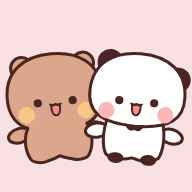
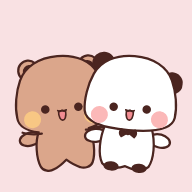
Refine Bubu and Dudu proportions to match the reference
- Taller, dome-shaped heads that are widest down at the cheeks
- Heads overhang narrower bodies; Bubu gets short strokes where the
  arms meet the head instead of a chin line, and separate legs
- Bigger eyes and cheeks, smaller ears on the top corners, thinner outlines
- Dudu's ears and bow repositioned; smaller feet
- Taller character frames in the UI and regenerated icons

Claude-Session: https://claude.ai/code/session_012u5ik2zT8MebyXRT3nx7Dc

Changed region(s): [[0.0, 0.25, 1.0, 0.9062]]

diff --git a/js/characters.js b/js/characters.js
@@ -1,8 +1,8 @@
 // Inline SVG drawings of the two characters: Bubu (brown bear) and Dudu (white panda).
-// Original drawings in the Bubu & Dudu style: a big soft mochi-shaped head, stubby body,
-// little nub arms, dot eyes, an open "ω" mouth, round cheeks and thick dark-brown outlines.
-// Bubu's head and body are one continuous shape; Dudu's head sits on top of the body
-// with a little dark collar underneath.
+// Original drawings in the Bubu & Dudu style: a big soft head that is widest down at the
+// cheeks, a short chunky body, little nub arms, dot eyes, an open "ω" mouth, round cheeks
+// and dark-brown outlines. Bubu's head and body are one continuous shape; Dudu's head sits
+// on top of the body with a little dark bow underneath.
 
 export const INK = '#4B2520';
 const TONGUE = '#F28C92';
@@ -33,70 +33,75 @@ const blob = (d, fill, w = 3.5) =>
 
 // Open mouth: a small "ω" on top of a U filled with tongue. `depth` is how far it drops.
 const openMouth = (depth) =>
-  blob(`M92 101 C91 ${101 + depth * 0.7} 95 ${101 + depth} 100 ${101 + depth} C105 ${101 + depth} 109 ${101 + depth * 0.7} 108 101 Z`, TONGUE) +
-  line('M90 100 q5 5.5 10 0 q5 5.5 10 0', 3.5);
+  blob(`M93 97 C92 ${97 + depth * 0.7} 96 ${97 + depth} 100 ${97 + depth} C104 ${97 + depth} 108 ${97 + depth * 0.7} 107 97 Z`, TONGUE, 3.2) +
+  line('M91.5 96 q4.25 5 8.5 0 q4.25 5 8.5 0', 3.2);
 
-// Face features in head coordinates: eyes at (68, 96) and (132, 96), mouth below the centre.
+// Face features in head coordinates: eyes at (67, 92) and (133, 92), mouth just below.
 const FACES = {
-  happy: () => dot(68, 96, 7.5) + dot(132, 96, 7.5) + openMouth(20),
+  happy: () => dot(67, 92, 8.5) + dot(133, 92, 8.5) + openMouth(19),
   sleepy: () =>
-    line('M60 97 q8 6 16 0') + line('M124 97 q8 6 16 0') +
-    line('M93 104 q3.5 4 7 0 q3.5 4 7 0', 3.5) +
-    line('M172 16 h9 l-9 11 h9', 3.5) + line('M186 2 h7 l-7 9 h7', 3),
+    line('M59 93 q8 6 16 0') + line('M125 93 q8 6 16 0') +
+    line('M93 100 q3.5 4 7 0 q3.5 4 7 0', 3.2) +
+    line('M176 -6 h9 l-9 11 h9', 3.5) + line('M190 -20 h7 l-7 9 h7', 3),
   hungry: () =>
-    dot(68, 96, 8) + dot(132, 96, 8) + shine(71, 93, 2.6) + shine(135, 93, 2.6) +
-    openMouth(27) +
-    blob('M113 116 q8 12 0 17 q-8 -5 0 -17 z', WATER, 3),
+    dot(67, 92, 9) + dot(133, 92, 9) + shine(70, 88.5, 3) + shine(136, 88.5, 3) +
+    openMouth(25) +
+    blob('M112 110 q8 12 0 17 q-8 -5 0 -17 z', WATER, 3),
   missyou: () =>
-    dot(68, 96, 8.5) + dot(132, 96, 8.5) + shine(71, 92, 3) + shine(135, 92, 3) +
-    blob('M138 104 q9 13 0 19 q-9 -6 0 -19 z', WATER, 3) +
-    line('M90 113 q5 -5.5 10 0 q5 -5.5 10 0', 3.5),
+    dot(67, 92, 9.5) + dot(133, 92, 9.5) + shine(70, 88, 3.4) + shine(136, 88, 3.4) +
+    blob('M140 100 q9 13 0 19 q-9 -6 0 -19 z', WATER, 3) +
+    line('M90 108 q5 -5.5 10 0 q5 -5.5 10 0', 3.2),
   busy: () =>
-    line('M60 96 h16') + line('M124 96 h16') +
-    line('M93 108 h14', 3.5) +
-    blob('M34 50 q8 12 0 17 q-8 -5 0 -17 z', WATER, 3),
+    line('M59 92 h16') + line('M125 92 h16') +
+    line('M93 104 h14', 3.2) +
+    blob('M28 52 q8 12 0 17 q-8 -5 0 -17 z', WATER, 3),
   grumpy: () =>
-    dot(68, 98, 6.5) + dot(132, 98, 6.5) +
-    line('M54 82 l20 7') + line('M146 82 l-20 7') +
-    line('M90 114 q10 -9 20 0', 3.5),
+    dot(67, 94, 7.5) + dot(133, 94, 7.5) +
+    line('M54 78 l20 7') + line('M146 78 l-20 7') +
+    line('M90 110 q10 -9 20 0', 3.2),
 };
 
 const cheeks = (c) =>
-  `<circle cx="46" cy="116" r="15" fill="${c.cheek}"/><circle cx="154" cy="116" r="15" fill="${c.cheek}"/>`;
+  `<circle cx="40" cy="110" r="17" fill="${c.cheek}"/><circle cx="160" cy="110" r="17" fill="${c.cheek}"/>`;
 
-// The top and sides of the head, shared by both characters.
-const HEAD_TOP = 'M100 8 C152 8 186 34 187 82';
+// Head: narrower at the top, widest down at cheek level, soft flat-ish bottom.
+const HEAD_TOP_RIGHT = 'M100 -12 C138 -12 166 4 178 30 C188 52 193 82 190 104';
+const HEAD_LEFT_TOP = 'C7 82 12 52 22 30 C34 4 62 -12 100 -12 Z';
 const headShape = (fill) =>
-  `<path fill="${fill}" d="${HEAD_TOP} C188 120 166 140 100 141 C34 140 12 120 13 82 C14 34 48 8 100 8 Z"/>`;
+  `<path fill="${fill}" d="${HEAD_TOP_RIGHT} C187 124 160 136 100 136 C40 136 13 124 10 104 ${HEAD_LEFT_TOP}"/>`;
 
 function bubuParts(c) {
   const ears =
-    `<circle cx="44" cy="30" r="20" fill="${c.fur}"/><circle cx="156" cy="30" r="20" fill="${c.fur}"/>` +
-    `<circle cx="46" cy="33" r="12.5" fill="${INK}" stroke="none"/><circle cx="154" cy="33" r="12.5" fill="${INK}" stroke="none"/>`;
+    `<circle cx="40" cy="12" r="20" fill="${c.fur}"/><circle cx="160" cy="12" r="20" fill="${c.fur}"/>` +
+    `<circle cx="42" cy="14" r="13" fill="${INK}" stroke="none"/><circle cx="158" cy="14" r="13" fill="${INK}" stroke="none"/>`;
   const arms =
-    `<ellipse cx="30" cy="152" rx="21" ry="13" fill="${c.fur}" transform="rotate(-12 30 152)"/>` +
-    `<ellipse cx="170" cy="152" rx="21" ry="13" fill="${c.fur}" transform="rotate(12 170 152)"/>`;
-  // One silhouette: head, then down the body to two little feet and back up, no chin line.
+    `<ellipse cx="32" cy="148" rx="21" ry="13" fill="${c.fur}" transform="rotate(-10 32 148)"/>` +
+    `<ellipse cx="168" cy="148" rx="21" ry="13" fill="${c.fur}" transform="rotate(10 168 148)"/>`;
+  // One silhouette: head, then down a short chunky body to two feet and back up. No chin line.
   const silhouette =
-    `<path fill="${c.fur}" d="${HEAD_TOP} C188 114 172 134 154 140 ` +
-    'C164 158 162 182 154 196 C150 205 132 206 124 203 C114 201 106 198 100 195 ' +
-    'C94 198 86 201 76 203 C68 206 50 205 46 196 C38 182 36 158 46 140 ' +
-    'C28 134 12 114 13 82 C14 34 48 8 100 8 Z"/>';
-  return { ears, body: arms + silhouette, head: headShape(c.fur), collar: '' };
+    `<path fill="${c.fur}" d="${HEAD_TOP_RIGHT} C189 122 170 132 150 136 ` +
+    'C159 154 159 188 152 204 C148 214 134 216 126 212 C116 208 108 202 100 195 ' +
+    'C92 202 84 208 74 212 C66 216 52 214 48 204 C41 188 41 154 50 136 ' +
+    `C30 132 11 122 10 104 ${HEAD_LEFT_TOP}"/>`;
+  // Where the arms meet the head there's a short stroke on each side, not a full chin.
+  const armLines = line('M18 134 Q36 141 56 139', 4.5) + line('M144 139 Q164 141 182 134', 4.5);
+  return { ears, body: arms + silhouette, head: headShape(c.fur), extra: armLines };
 }
 
 function duduParts(c) {
-  const ears = `<circle cx="46" cy="28" r="21" fill="${INK}"/><circle cx="172" cy="50" r="20" fill="${INK}"/>`;
+  const ears = `<circle cx="40" cy="8" r="21" fill="${INK}"/><circle cx="178" cy="36" r="20" fill="${INK}"/>`;
   const arms =
-    `<ellipse cx="32" cy="154" rx="21" ry="13" fill="${c.fur}" transform="rotate(-12 32 154)"/>` +
-    `<ellipse cx="168" cy="154" rx="21" ry="13" fill="${c.fur}" transform="rotate(12 168 154)"/>`;
+    `<ellipse cx="36" cy="152" rx="21" ry="13" fill="${c.fur}" transform="rotate(-10 36 152)"/>` +
+    `<ellipse cx="164" cy="152" rx="21" ry="13" fill="${c.fur}" transform="rotate(10 164 152)"/>`;
   const torso =
-    `<path fill="${c.fur}" d="M50 128 C42 156 44 182 52 196 C64 205 86 204 100 199 C114 204 136 205 148 196 C156 182 158 156 150 128 Z"/>`;
+    `<path fill="${c.fur}" d="M54 128 C44 156 44 190 54 206 C64 216 86 214 100 208 C114 214 136 216 146 206 C156 190 156 156 146 128 Z"/>`;
   const feet =
-    `<ellipse cx="70" cy="201" rx="12" ry="7" fill="${INK}"/><ellipse cx="130" cy="201" rx="12" ry="7" fill="${INK}"/>`;
+    `<ellipse cx="72" cy="210" rx="13" ry="7" fill="${INK}"/><ellipse cx="128" cy="210" rx="13" ry="7" fill="${INK}"/>`;
   // Little dark bow just under the chin.
-  const collar = `<path d="M84 139 Q90 152 100 146 Q110 152 116 139 Q100 145 84 139 Z" fill="${INK}" stroke="${INK}" stroke-width="3" stroke-linejoin="round"/>`;
-  return { ears, body: arms + torso + feet + headShape(c.fur), head: headShape(c.fur), collar };
+  const bow =
+    `<path d="M100 141 L86 135 Q80 143 87 150 Z M100 141 L114 135 Q120 143 113 150 Z" fill="${INK}" stroke="${INK}" stroke-width="3" stroke-linejoin="round"/>` +
+    dot(100, 141, 5);
+  return { ears, body: arms + torso + feet + headShape(c.fur), head: headShape(c.fur), extra: bow };
 }
 
 /**
@@ -109,13 +114,13 @@ export function characterSVG(kind, mood = 'happy', opts = {}) {
   const c = CHARACTERS[kind] ?? CHARACTERS.bubu;
   const parts = (kind === 'dudu' ? duduParts : bubuParts)(c);
   const face = (FACES[mood] ?? FACES.happy)();
-  const stroke = `stroke="${INK}" stroke-width="5.5" stroke-linejoin="round" stroke-linecap="round"`;
+  const stroke = `stroke="${INK}" stroke-width="4.5" stroke-linejoin="round" stroke-linecap="round"`;
   const a11y = opts.label
     ? `role="img" aria-label="${opts.label.replace(/"/g, '&quot;')}"`
     : 'aria-hidden="true" focusable="false"';
 
   if (opts.faceOnly) {
-    return `<svg viewBox="4 -2 196 150" ${a11y}><g ${stroke}>${parts.ears}${parts.head}</g>${cheeks(c)}${face}</svg>`;
+    return `<svg viewBox="4 -24 196 166" ${a11y}><g ${stroke}>${parts.ears}${parts.head}</g>${cheeks(c)}${face}</svg>`;
   }
-  return `<svg viewBox="0 0 200 210" ${a11y}><g ${stroke}>${parts.ears}${parts.body}</g>${parts.collar}${cheeks(c)}${face}</svg>`;
+  return `<svg viewBox="0 -24 200 244" ${a11y}><g ${stroke}>${parts.ears}${parts.body}</g>${parts.extra}${cheeks(c)}${face}</svg>`;
 }

diff --git a/css/app.css b/css/app.css
@@ -88,8 +88,8 @@ p { margin: 0; }
   transition: transform .12s ease, border-color .12s ease, background .12s ease;
 }
 .pick[aria-pressed="true"] { border-color: var(--accent); background: #FFEFF2; }
-.pick-art { width: 110px; height: 116px; display: block; }
-.pick.small .pick-art { width: 70px; height: 74px; }
+.pick-art { width: 110px; height: 134px; display: block; }
+.pick.small .pick-art { width: 70px; height: 85px; }
 .pick-art svg, .inner svg, .loading-bears svg, .pair-art svg { width: 100%; height: 100%; display: block; }
 .pick-name { font-family: var(--display); font-size: 20px; font-weight: 800; }
 .pick-sub { font-size: 13px; color: var(--muted); font-weight: 700; }
@@ -128,10 +128,10 @@ p { margin: 0; }
 .tabbar button[aria-current="page"] { color: var(--accent-ink); }
 
 /* Scene */
-.scene { position: relative; height: 230px; border-radius: 28px; background: var(--scene); overflow: hidden; }
+.scene { position: relative; height: 240px; border-radius: 28px; background: var(--scene); overflow: hidden; }
 .ground { position: absolute; left: 24px; right: 24px; bottom: 16px; height: 36px; border-radius: 50%; background: var(--ground); }
 .char {
-  position: absolute; bottom: 22px; width: 132px; height: 139px;
+  position: absolute; bottom: 20px; width: 132px; height: 161px;
   transition: transform .5s cubic-bezier(.3, 1.4, .5, 1);
 }
 .char.me { left: calc(50% - 150px); }
